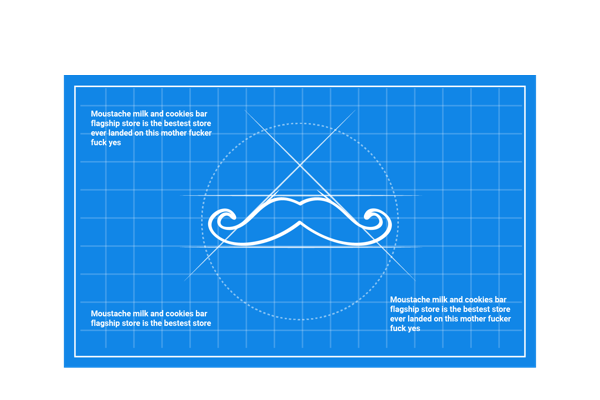
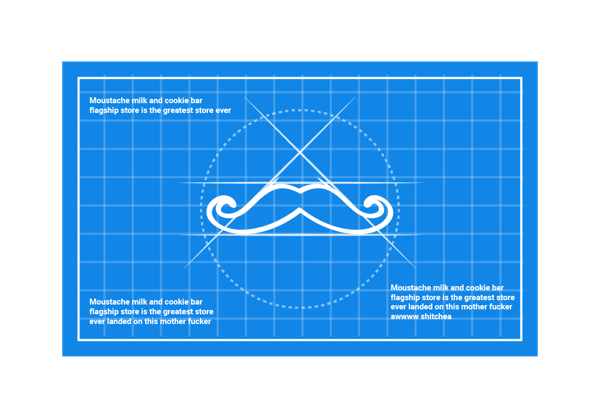
update image

Changed region(s): [[0.09, 0.15, 0.9, 0.93]]

diff --git a/README.md b/README.md
@@ -1,2 +1,2 @@
 # moustache-jekyll
-Moustache Milk &amp; Cookies Jekyll Site
+Moustache Milk &amp; Cookie Jekyll Site
